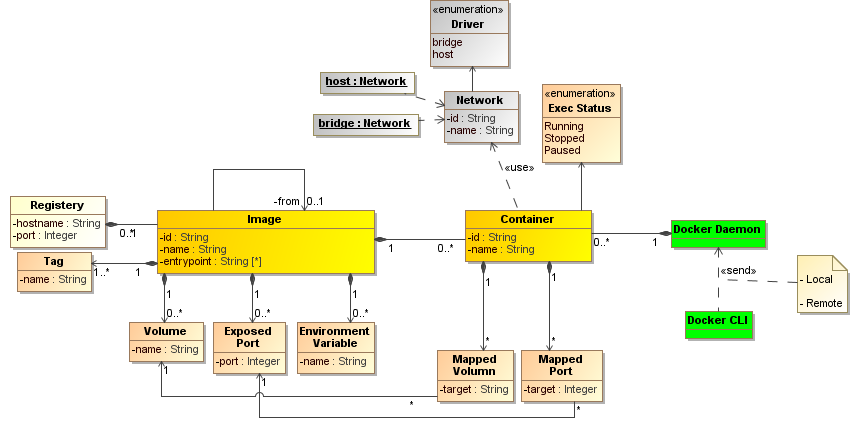
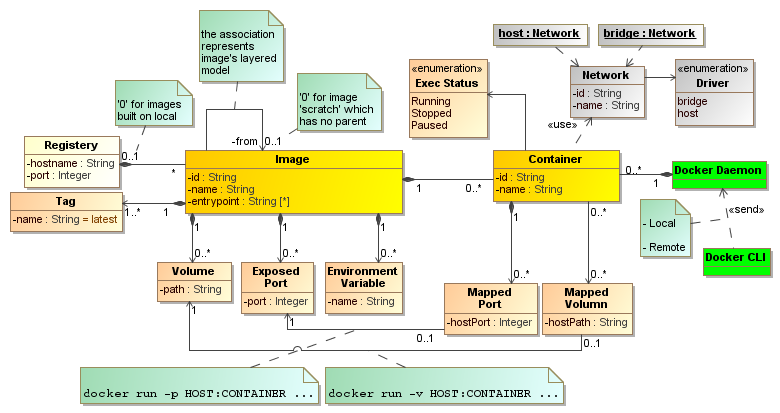
- minor changes

diff --git a/_drafts/docker01.md b/_drafts/docker01.md
@@ -7,8 +7,9 @@ excerpt: Running containers by Docker
 
 ## Introduction
 
-Every process on your OS is executed from an application and it has only an **isolated memory space**.
-However, other resources such as storage and network are shared for all processes.
+Every process on your OS is executed from an application code and each process can interfere in other process's resources. 
+The OS or the VM (if there is any) can provide some security and isolation mechanisms, 
+however it can be different for each OS type and impose difficult configuration. 
 
 _Docker_ provides a layered archive file of the application(s), called an _Image_, 
 and a _virtual environment_, called a _Container_, for running process(s) of the application(s). This _virtual environment_ is isolated by
@@ -16,32 +17,41 @@ and a _virtual environment_, called a _Container_, for running process(s) of the
 - **storage** (similar to a _hypervisor_)
 - **network** (similar to a _hypervisor_)
 
+The image has a layered architecture, each layer contains the differences between the preceding layer and the current layer, and
+on top of the layers, there is a writable layer (the current one) which is called the _container layer_[^docker_layer].
+
+As mentioned above, there are some similarities between Docker and a hypervisor in providing isolated resources. 
+The most important difference is their focus and application. If you want a **full-fledged OS**, the hypervisor
+is the solution, and if you want a **light-weight isolated virtual environment for your process(s)**, Docker is the answer. 
+For example, if you want to run a [MySQL](#mysql) server, Docker is the best choice, and if you want to execute a simulation app with
+GUI, virtualization is the only choice. 
+
 The following class diagram illustrates the overall parts involved in Docker installed in your host.
 
 ![DockerClassDiagram](/assets/images/docker/DockerCD.png)
 
-In a simple story, a container is started by the `docker daemon` using the `docker` client:
+In a simple story, a container is started by the `docker daemon`, called by the `docker` client (command):
 - At first, the image is downloaded from the registry if not already downloaded
 - Docker can create one or another independent container from one image
 - During container startup, Docker executes the command(s) provided in its image or passed as input parameters
-- Docker may connect the container to one of its virtual network interfaces due to startup parameters, 
+- Docker initializes the container's network interface and may attach it to one of its virtual network subnet due to startup parameters, 
 and even open a port on the host binding it to one of its internal process
 - Docker may mount a file/directory to its internal file/directory due to startup parameters
 
-Container(s) can be started via following ways
-- Single host, some and unrelated containers - using the `docker` command
-- Single host, multiple and related containers - using `docker-compose` command
-- Multiple host, lots of containers - using Docker Swarm and Kubernetes 
+Container(s) can be started via one of following ways
+- `docker` command - single host, various unrelated containers
+- `docker-compose` command - single host, multiple related containers
+- Docker Swarm and Kubernetes - Multiple hosts with lots of containers 
 
 ## Installation
 Docker is presented in two editions: CE (community edition) and EE (enterprise edition). Most of the time, people use its CE and in the case of this tutorial.
 
-The installation is different due to your OS. So the best reference is the Docker site itself.
+The installation is different due to your OS. So the best reference is the Docker site.
 - [Debian](https://docs.docker.com/install/linux/docker-ce/debian/)
 - [Ubuntu](https://docs.docker.com/install/linux/docker-ce/ubuntu/)
 - [Windows](https://docs.docker.com/docker-for-windows/install/)
 
-**Note**: There is a general script for Linux distributions - `sudo curl -sSL https://get.docker.com | sh`
+**Note**: There is a general installation script for Linux distributions - `sudo curl -sSL https://get.docker.com | sh`
 
 ## Docker CLI
 After installing Docker, the `docker` command must be in your path and can be executed from your OS CLI app.
@@ -53,29 +63,29 @@ Command | Description
 `docker version` | Show version information of installed Docker client and server
 `docker image ls` | List of image(s) on your host
 `docker image inspect IMAGE` | Display detailed information on the image
-`docker image pull IMAGE` | Download the image from Hub registry
+`docker image pull IMAGE` | Download the image from a registry
 `docker image rm IMAGE` | Remove the image from local
-`docker container ls` | List only running containers
+`docker container ls` | List running containers
 `docker container ls -a` | List all containers
 `docker container stats` | Display a live stream of container(s) resource usage statistics
 `docker container run IMAGE` | Download the image, if not already downloaded, and start a container from it   
-`docker container top CONTAINER` | Download the image, if not already downloaded, and starts a container from it
+`docker container top CONTAINER` | Display the running processes of a container
 `docker container exec CONTAINER` | Execute a command inside the container
 `docker container logs CONTAINER` | Display the standard output of the container as logs
 
-- `IMAGE` - Each image has a specific name to be addressed on a registry. The `IMAGE` reference in simple form on Hub registry is:
+- `IMAGE` - Each image has a specific name to be addressed on a registry. The `IMAGE` reference in simple form on Docker Hub registry is:
   > `IMAGE_NAME[:TAG]`
 
   `TAG` is optional and its default value is `latest`. However, defining a specific tag is highly recommended to assure you about the version of the used image.
-  Some examples are `mysql:5.7`, `openjdk:8u191-alpine`, `redis:5.0.4-stretch`, etc.
+  Some examples are `mysql:5.7`, `openjdk:8u191-alpine`, `redis:5.0.4-stretch`, and etc.
   
   The general form of `IMAGE` on a registry server is:
   > `[[HOSTNAME[:PORT]/]USERNAME/]IMAGE_NAME[:TAG]`
 
-- `CONTAINER` refers to the name or id of an container
+- `CONTAINER` refers to the name or id of a container
 
-**Note:** as stated in the previous table, the following command shows three most popular information of referred `IMAGE`.
-In [MySQL](#mysql) section, details of the following command is described by an example.
+**Note:** as stated in the previous table, the following command shows three most popular information of an `IMAGE`.
+In [MySQL](#mysql) section, details of the following command is described as an example.
 > {% raw %}`docker image inspect -f '{{println "VOL =" .Config.Volumes}}{{println "ENV =" .Config.Env}}{{println "PORTS =" .ContainerConfig.ExposedPorts}}' IMAGE`{% endraw %}
 
 
@@ -96,9 +106,9 @@ Lets start real and practical examples.
 
   --|--
   `-d` | the container is detached and executed in background
-  `-v /opt/mysql/data:/var/lib/mysql` | the volume `/var/lib/mysql` inside the container is mapped on the `/opt/mysql/data` in the host
-  `-p 3306:3306` | binding ports, the general format is _PORT_ON_HOST_`:`_PORT_IN_CONTAINER_
-  `-e MYSQL_ROOT_PASSWORD=root` | setting value `root` for environment variable `MYSQL_ROOT_PASSWORD`
+  `-v /opt/mysql/data:/var/lib/mysql` | _HOST_`:`_CONTAINER_ for mapping volume <br/> `/var/lib/mysql` of container is mapped on `/opt/mysql/data` of host
+  `-p 3306:3306` | _HOST_`:`_CONTAINER_ for binding ports
+  `-e MYSQL_ROOT_PASSWORD=root` | assigning value `root` for environment variable `MYSQL_ROOT_PASSWORD`
   `--restart=always` | on next host reboot or power-on, the container starts automatically (like services in Windows)
   `--name MySQL` | `MySQL` is assigned as the name to this container to be addressed easily, and such a value that can replace `CONTAINER` in above table.
   `mysql:5.7` | the `IMAGE` reference
@@ -127,3 +137,6 @@ Lets start real and practical examples.
   > `docker container exec -it Redis redis-cli -a PASSWORD`
 
   <!-- TODO: redis-cli tutorial -->
+
+## References
+[^docker_layer]: [Docker Layers Explained](https://dzone.com/articles/docker-layers-explained)
